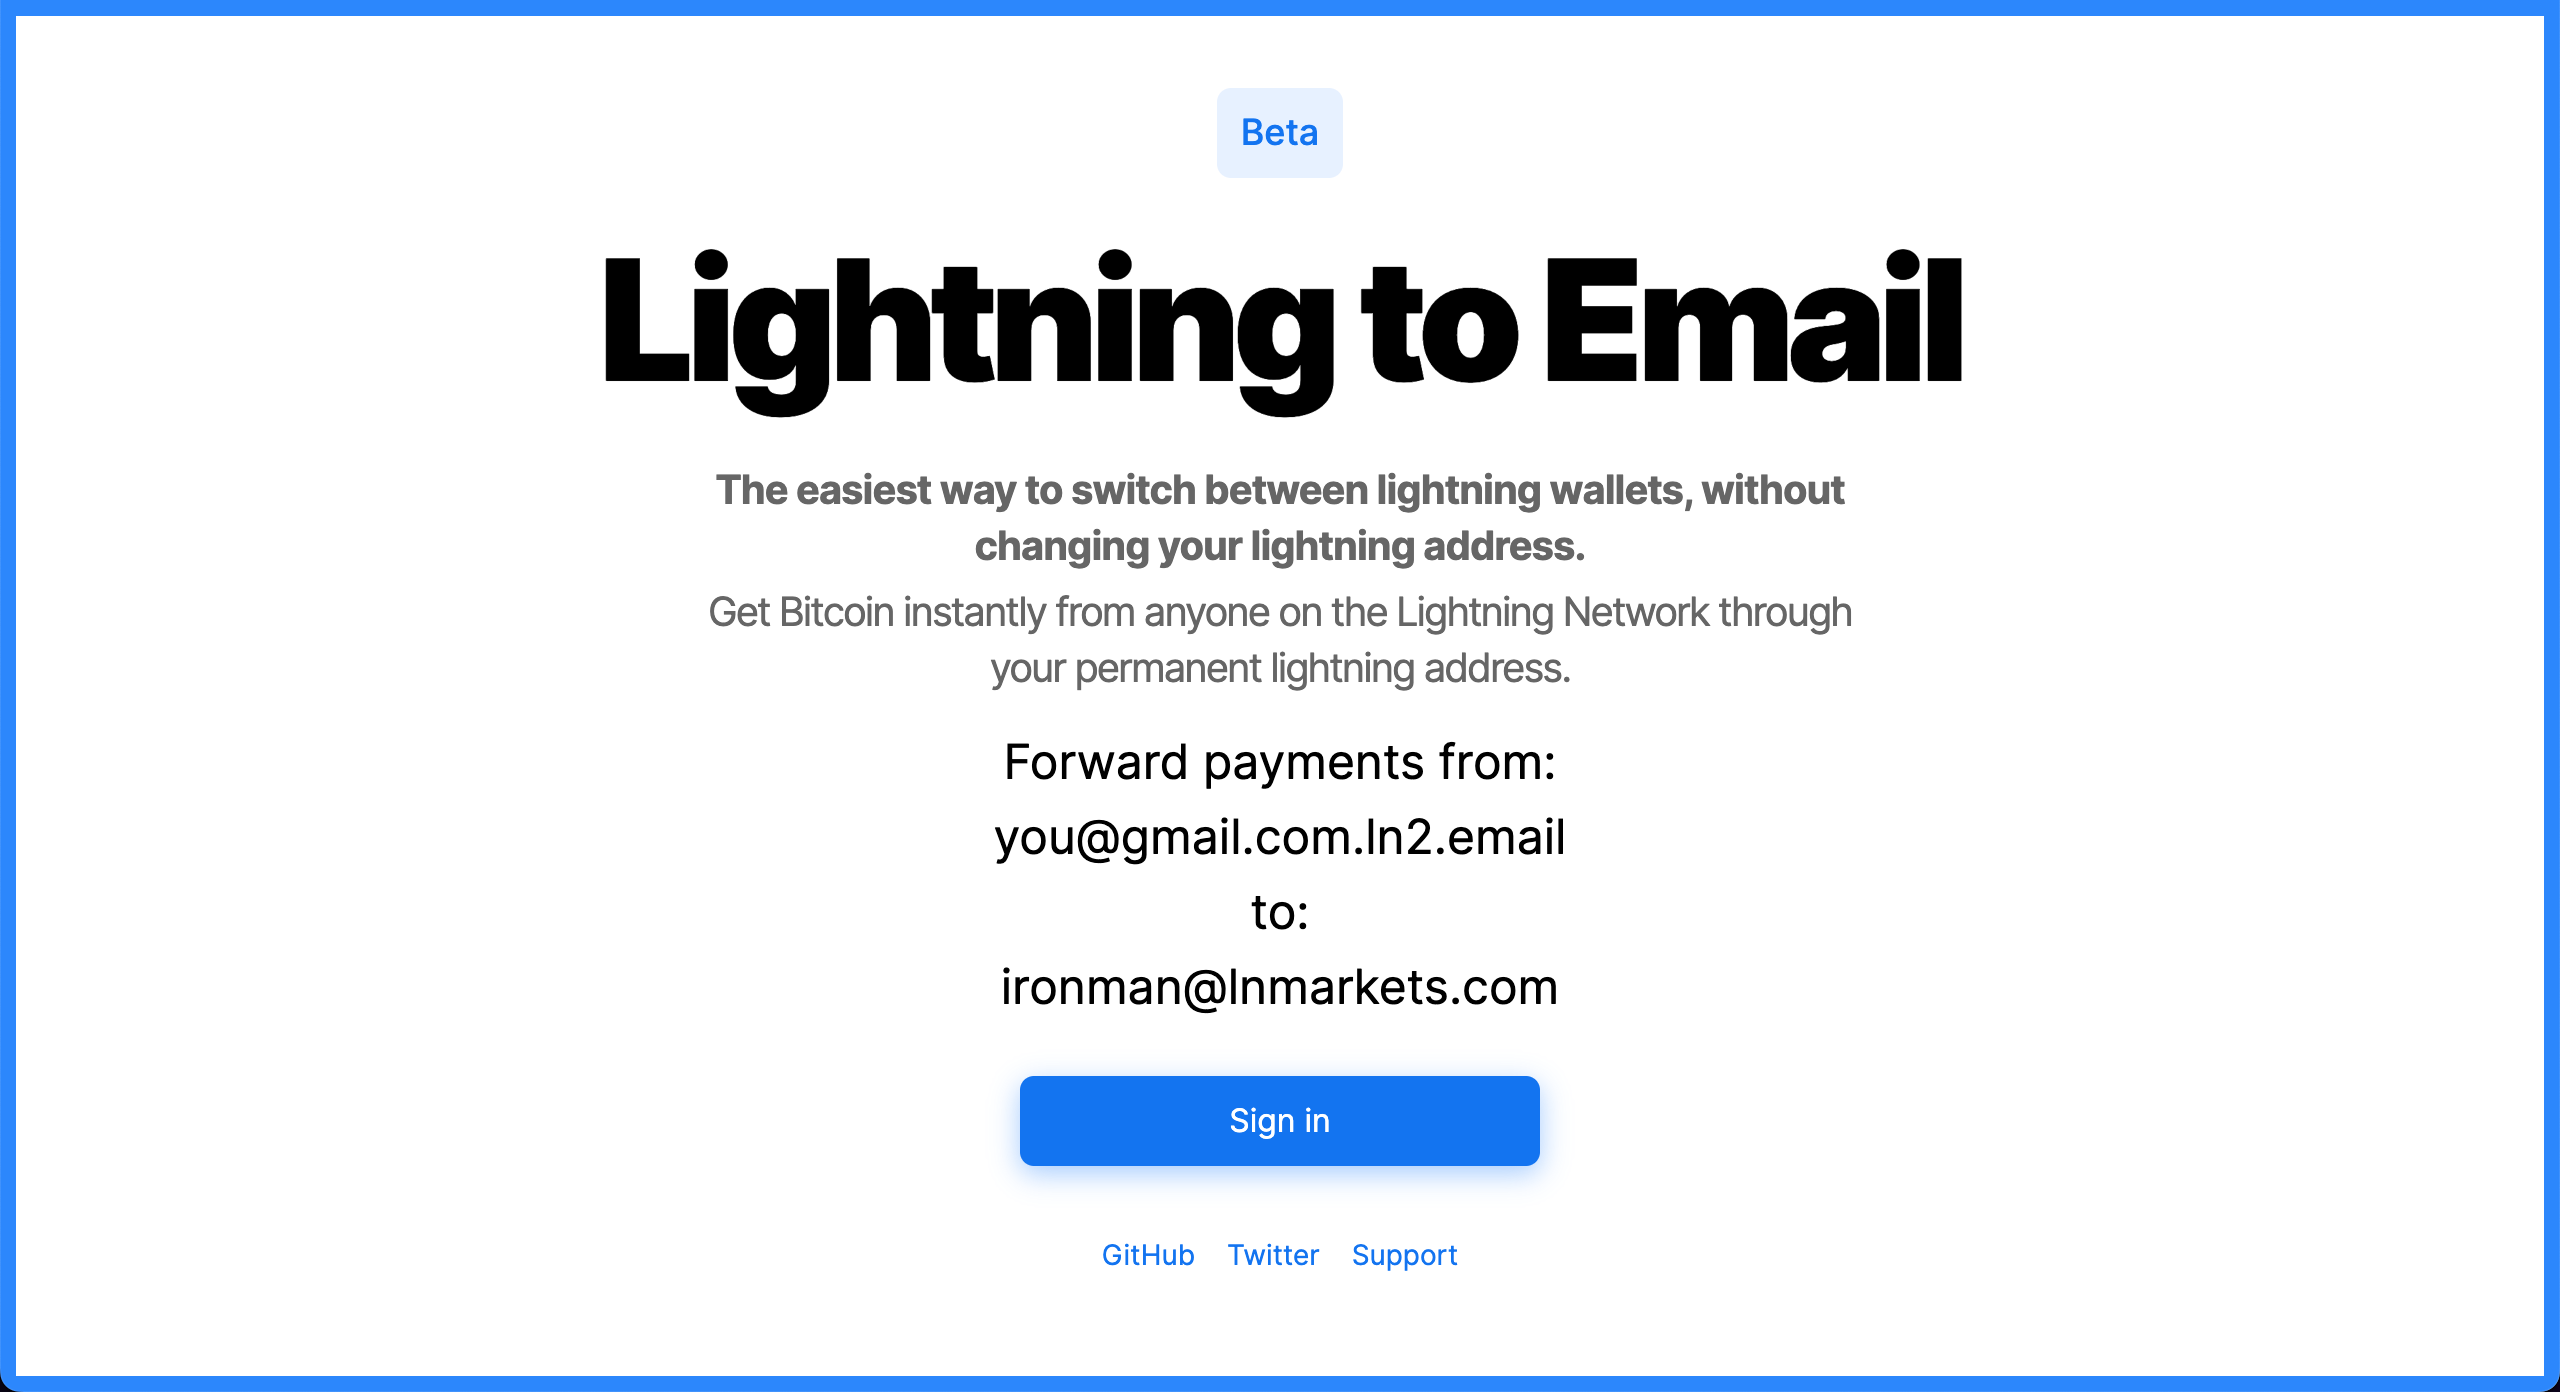
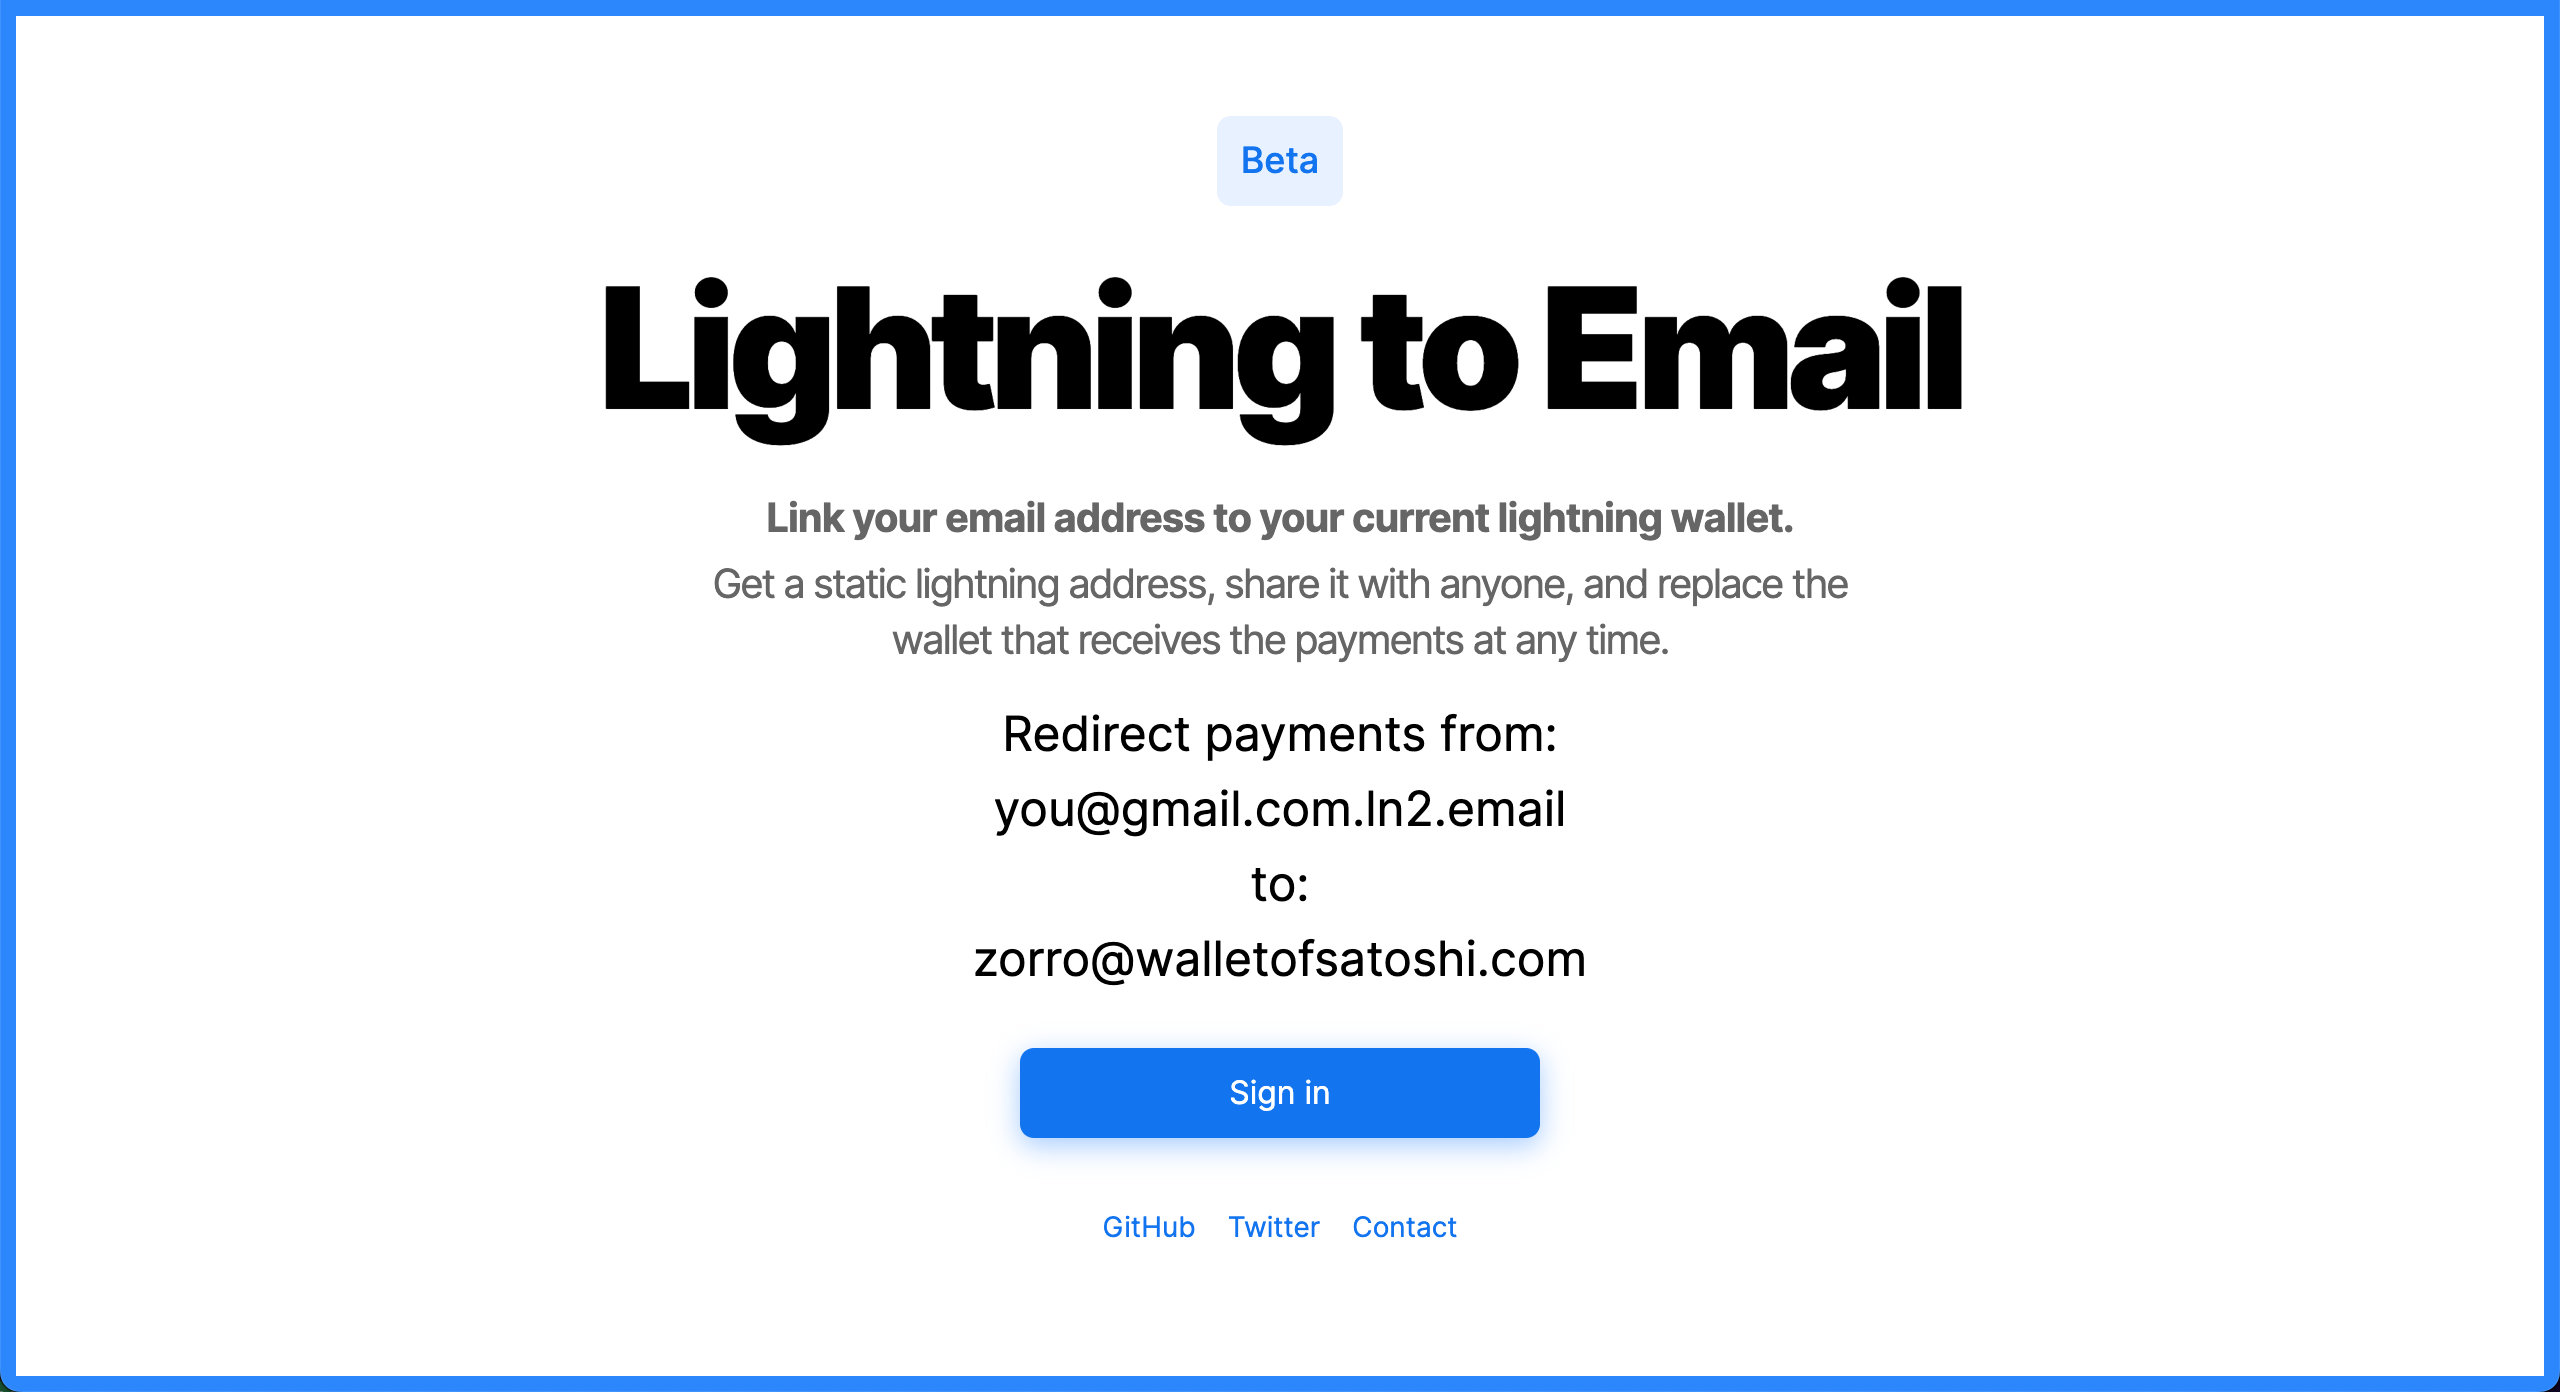
change subtitles

Changed region(s): [[0.2188, 0.1853, 0.7812, 0.9267], [0.4688, 0.0927, 0.5312, 0.1236]]

diff --git a/components/home/index.tsx b/components/home/index.tsx
@@ -197,16 +197,15 @@ export default function Home() {
       <Fade triggerOnce direction="up" delay={900}>
         <Description>
           <Bold>
-            The easiest way to switch between lightning wallets,
-            without changing your lightning address.
+            Link your email address to your current lightning wallet.
           </Bold>
-          Get Bitcoin instantly from anyone on the Lightning Network through your permanent
-          lightning address.
+          Get a static lightning address, share it with anyone, and replace the wallet that
+          receives the payments at any time.
         </Description>
       </Fade>
       <Fade triggerOnce direction="up" delay={1300}>
         <LoopRowTitle>
-          Forward payments from:
+          Redirect payments from:
         </LoopRowTitle>
         {
           session?.user?.email ? (

diff --git a/README.md b/README.md
@@ -1,6 +1,7 @@
 # Lightning to Email
 
-The easiest way to switch between lightning wallets, without changing your lightning address.
+Forward lightning payments from your email address + ".ln2.email" to your current lightning
+wallet.
 
 ![](/public/og.png)
 
